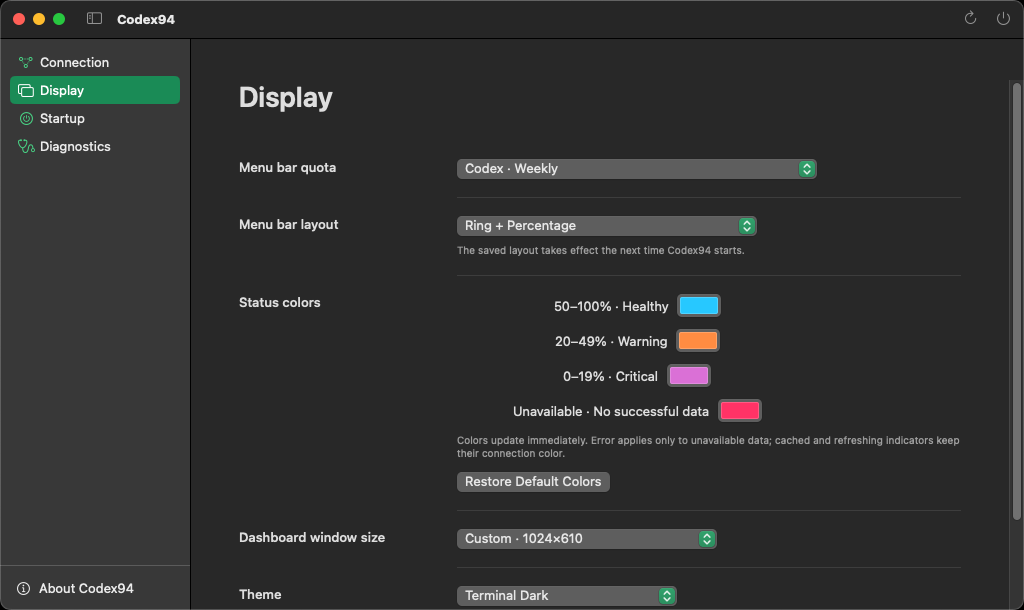
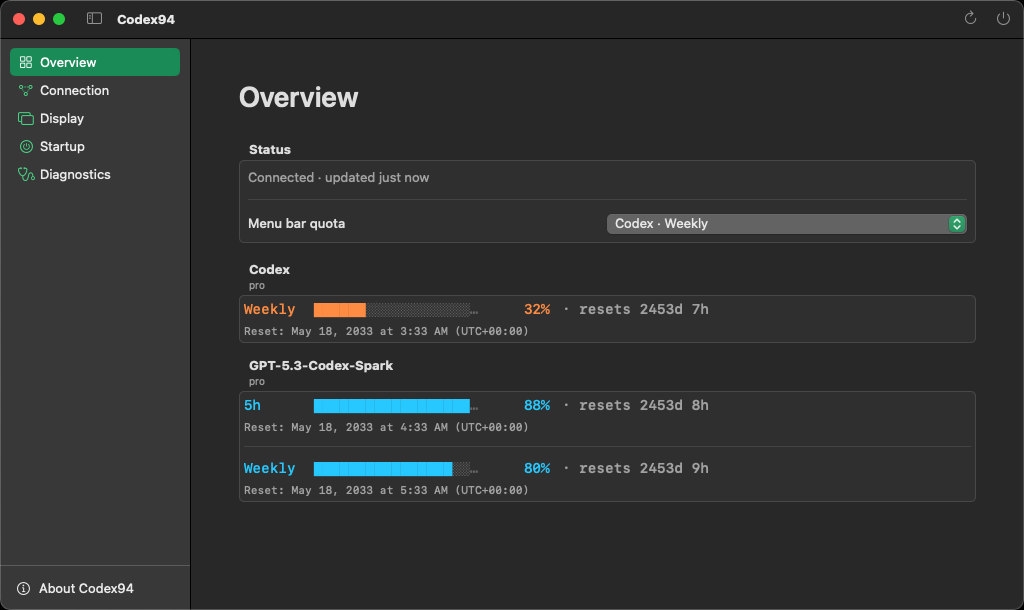
Update v0.1.9 review documentation

diff --git a/README.md b/README.md
@@ -25,12 +25,10 @@ tested, and security-scanned before it is tagged.
 
 The values below come from an isolated documentation fixture. They are
 illustrative and do not contain a real account, identity, or quota.
-The currently embedded popover and Dashboard images still show `0.1.8`; they
-were captured in isolated CI and reviewed before inclusion. Their fixed future
-Reset dates are test values, not live reset schedules. Draft PR CI will produce
-the first `0.1.9` Overview artifact, which must be visually and privacy reviewed
-before it replaces an image here. The unchanged default menu-bar sample is
-retained from `v0.1.7`.
+The embedded popover images remain reviewed synthetic `0.1.8` captures. The
+Dashboard image is a reviewed synthetic `0.1.9` Overview capture from
+GitHub-hosted CI. Its fixed future Reset dates are test values, not live reset
+schedules. The unchanged default menu-bar sample is retained from `v0.1.7`.
 
 <p align="center">
   <img src="docs/images/readme/menu-bar.png" alt="Codex94 menu bar ring showing 79 percent remaining" width="144">
@@ -43,16 +41,17 @@ retained from `v0.1.7`.
 <p align="center"><strong>CLI-style quota popover</strong></p>
 
 <p align="center">
-  <img src="docs/images/readme/dashboard-en.png" alt="Codex94 English Display settings in Terminal Dark" width="900">
+  <img src="docs/images/readme/dashboard-en.png" alt="Codex94 English Overview showing synthetic quota buckets in Terminal Dark" width="900">
 </p>
-<p align="center"><strong>Display settings</strong></p>
+<p align="center"><strong>Quota Overview</strong></p>
 
 ## Distribution status
 
-- This working source candidate is `0.1.9 (10)`; the latest published stable
-  source tag remains `v0.1.8`.
+- This tree contains `0.1.9 (10)`. Before the annotated `v0.1.9` tag is
+  published, the latest stable source tag is `v0.1.8`; after publication,
+  `v0.1.9` becomes the stable source tag.
 - `0.1.9` is not a source release until its tag is published. `main` and feature
-  branches may contain unreleased preparation.
+  branches may contain unreleased preparation before that gate.
 - This public repository can be cloned without GitHub authentication.
 - There is no GitHub Release, DMG, notarized binary, or automatic updater.
 - `script/install.sh` builds a local Release app, applies an ad-hoc Hardened
@@ -76,12 +75,24 @@ executable selected manually.
 
 ## Install from source
 
-Install the current stable `v0.1.8` source with:
+Choose exactly one clone command for a tag that is already published. Until the
+annotated `v0.1.9` tag appears, use the current stable `v0.1.8` source:
 
 ```bash
-brew install ripgrep
 git clone --branch v0.1.8 --depth 1 https://github.com/DEFY-AN94/codex94.git
+```
+
+After the annotated `v0.1.9` tag is published, use:
+
+```bash
+git clone --branch v0.1.9 --depth 1 https://github.com/DEFY-AN94/codex94.git
+```
+
+Then build the selected tag:
+
+```bash
 cd codex94
+brew install ripgrep
 
 sudo xcodebuild -license accept
 sudo xcodebuild -runFirstLaunch
@@ -180,7 +191,7 @@ at the stable path above.
   Homebrew, `/usr/local/bin`, `~/.local/bin`, then absolute `PATH` entries.
 - Offers Dashboard window presets at 900x600, 1280x720, 1440x810, and 1920x1080
   logical points, with proportional fitting to the current display.
-- Dashboard → About shows the exact candidate value `0.1.9 (10)`. A
+- Dashboard → About shows this tree's exact value `0.1.9 (10)`. A
   user-triggered copy action preserves that string, and the project link targets
   `https://github.com/DEFY-AN94/codex94`. It adds no updater or network client.
 - Supports system, Terminal Dark, and Terminal Light themes plus English and
@@ -283,13 +294,13 @@ security/signature checks:
 ```
 
 Version 0.1.8 passed the full GitHub test/release job, synthetic Display and
-click-functional Recovery UI jobs, and Actions/Swift CodeQL. Separate synthetic
-A/B GUI smokes covered all three next-launch layouts, color restoration,
-absolute Reset text, hard-unavailable recovery, and manual refresh. The four
-popover/Dashboard screenshots were visually and privacy reviewed. Keyboard
+click-functional Recovery UI jobs, and Actions/Swift CodeQL. For `0.1.9 (10)`,
+PR #11 is the authoritative record for exact-head test, Display/Recovery UI,
+Actions/Python/Swift CodeQL, and final App acceptance. The synthetic Overview
+capture embedded above has been reviewed for layout and privacy. Keyboard
 activation, AXPress, and hosted tooltip exposure are not claimed as passed.
-Draft PR CI, exact-head GUI evidence, and the first `0.1.9` Overview artifact
-remain pending and are not claimed as release evidence here.
+Candidate-review facts are not source-release evidence; `0.1.9` remains
+unreleased until final `main` is verified and the annotated tag is published.
 
 SwiftUI owns views and state presentation; AppKit owns the status item, popover,
 application appearance, and Dashboard window lifecycle. See

diff --git a/CONTRIBUTING.md b/CONTRIBUTING.md
@@ -103,17 +103,20 @@ must include the countdown and absolute time; public test data and screenshots
 must remain synthetic or redacted.
 
 Report source/static checks, compiled tests, GUI smoke, screenshots, and release
-status separately, tied to the actual candidate tree and artifacts. The four
-README popover/Dashboard images are reviewed synthetic `0.1.8` captures;
-the unchanged default menu-bar example remains from `v0.1.7`. A `0.1.9`
-Overview artifact is not documentation evidence until exact-head Draft PR CI
-produces it and a person reviews the image itself for layout and privacy.
+status separately, tied to the actual candidate tree and artifacts. The README
+popover images are reviewed synthetic `0.1.8` captures; the Dashboard images
+are reviewed synthetic `0.1.9` Overview captures from GitHub-hosted CI, and the
+unchanged default menu-bar example remains from `v0.1.7`.
 Version 0.1.8 passed the full test/release job, synthetic Display and
 click-functional Recovery UI jobs, CodeQL, and separate synthetic A/B GUI
-smokes. Keyboard activation, AXPress, and hosted tooltip exposure are not
-claimed as passed. The working candidate is `0.1.9 (10)`, while stable install
-instructions remain on `v0.1.8`. Keep candidate notes under Unreleased without
-a guessed date or release claim until the source release is finalized.
+smokes. For `0.1.9 (10)`, keep the exact-head test, Display/Recovery UI,
+Actions/Python/Swift CodeQL, and final App acceptance status on the pull request;
+the README images establish only the reviewed captures they display. Keyboard
+activation, AXPress, and hosted tooltip exposure are not claimed as passed. The
+README install section distinguishes the published `v0.1.8` command from the
+`v0.1.9` command that applies only after its annotated tag is published. Keep
+candidate notes under Unreleased without a guessed date or release claim until
+the source release is finalized.
 
 A release pull request begins as Draft. Required CI and exact-head synthetic UI
 artifacts must be complete and reviewed, and the maintainer must accept the

diff --git a/SECURITY.md b/SECURITY.md
@@ -53,19 +53,22 @@ telemetry, entitlement, or system permission.
 
 ## Supported versions
 
-This tree is the working `0.1.9 (10)` source candidate; the latest published
-stable source tag remains `v0.1.8`. The candidate is not a source release until
-an annotated `v0.1.9` tag is published from the separately verified final
-`main`. Feature branches and `main` may contain unreleased development work.
-Until that tag exists, `v0.1.8` remains the published stable source.
+This tree contains `0.1.9 (10)`. Before an annotated `v0.1.9` tag is published
+from the separately verified final `main`, `v0.1.8` remains the published stable
+source; after publication, `v0.1.9` becomes the supported stable source tag.
+Feature branches and `main` may contain unreleased development work before that
+gate.
 
 Version `0.1.8 (9)` passed the full GitHub test/release job, synthetic Display
 and click-functional Recovery UI jobs, Actions/Swift CodeQL, and separate
-synthetic A/B GUI smokes. Its synthetic documentation images were reviewed.
-Contributor validation guidance is documented in [CONTRIBUTING.md](CONTRIBUTING.md);
-static source checks alone are not runtime security or release evidence.
-Draft PR CI, exact-head App review, and visual/privacy review of a synthetic
-`0.1.9` Overview artifact remain pending; none is claimed as release evidence.
+synthetic A/B GUI smokes. For `0.1.9 (10)`, PR #11 is the authoritative record
+for exact-head test, Display/Recovery UI, Actions/Python/Swift CodeQL, and final
+App acceptance. The synthetic Overview image embedded in the README has been
+visually and privacy reviewed. Contributor validation guidance is documented in
+[CONTRIBUTING.md](CONTRIBUTING.md); static source checks alone are not runtime
+security or release evidence. Candidate facts do not become source-release
+evidence until final `main` and the annotated `v0.1.9` tag are separately
+verified.
 
 ## Reporting
 
